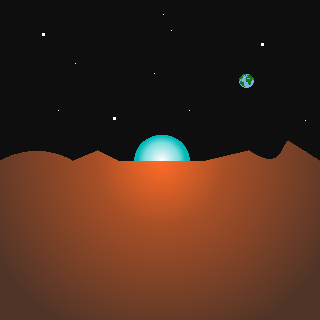
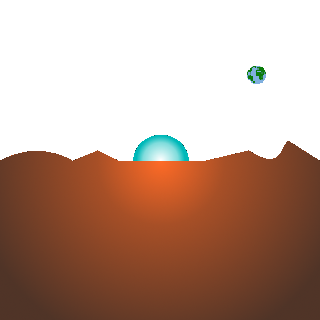
Fondos

diff --git a/apps/micropython/apps/vissile.py b/apps/micropython/apps/vissile.py
@@ -287,19 +287,19 @@ class Vissile(Scene):
         # tierra.set_frame(0)
         # tierra.set_perspective(2)
 
+        marte = Sprite()
+        marte.set_strip(stripes["marte.png"])
+        marte.set_x(0)
+        marte.set_y(255)
+        marte.set_perspective(0)
+        marte.set_frame(0)
+
         cielo = Sprite()
         cielo.set_strip(stripes["cielo.png"])
         cielo.set_x(64)
         cielo.set_y(0)
         cielo.set_frame(0)
         cielo.set_perspective(2)
-
-        marte = Sprite()
-        marte.set_strip(stripes["marte.png"])
-        marte.set_x(0)
-        marte.set_y(0)
-        marte.set_perspective(0)
-        marte.set_frame(0)
 
 
     def step(self):
